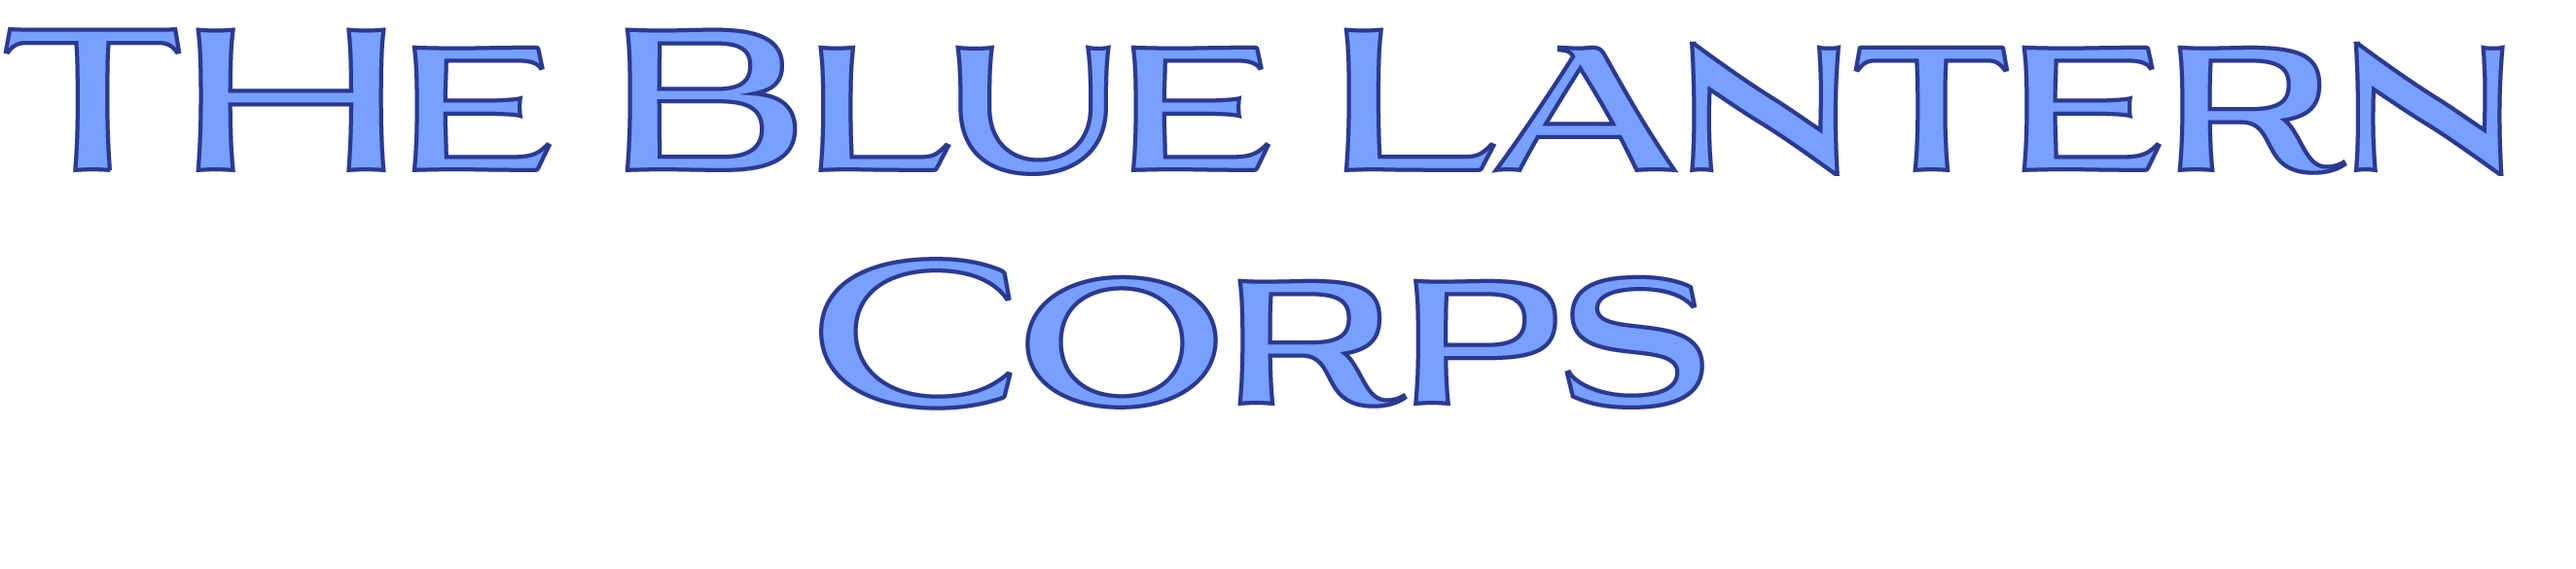
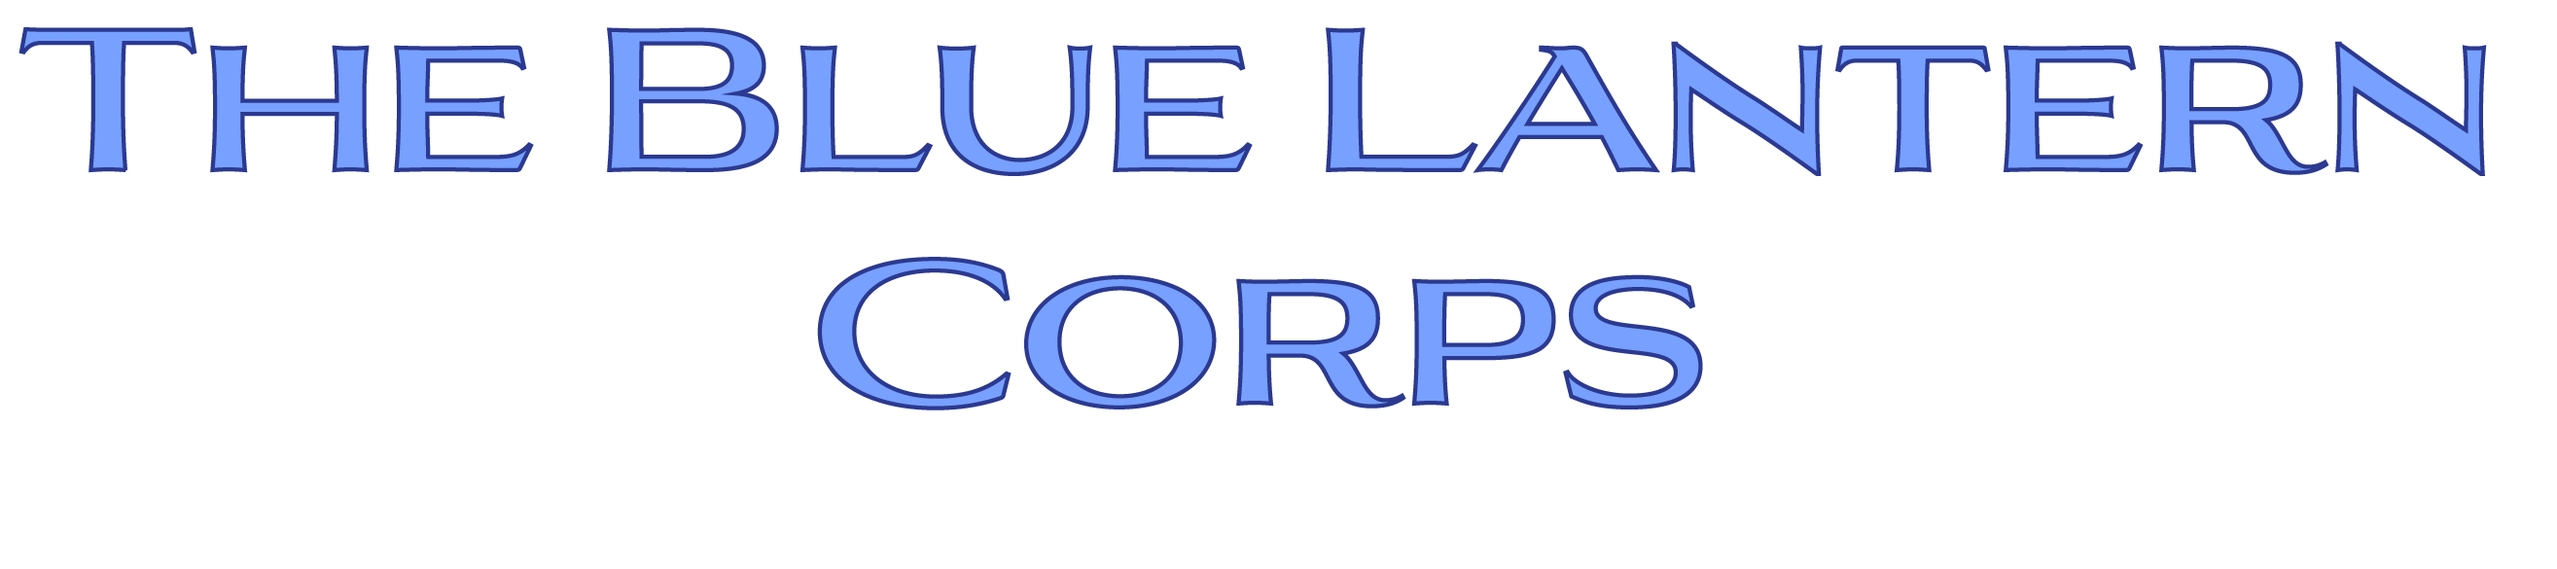
Add files via upload

Changed region(s): [[0.0, 0.0308, 0.5926, 0.3077], [0.3119, 0.4615, 0.6862, 0.7385], [0.5926, 0.0615, 0.9357, 0.3077]]

diff --git a/Lantern Site (Work)/index.html b/Lantern Site (Work)/index.html
@@ -9,35 +9,36 @@
 <body>
   <div class="row expand-column-wrapper">
   <div class="column">
-	  <a href="will/greenlantern.html"><h1 class="expand-column-content" style="color: #63FF88">Will</h1></a>
+	  <a href="will/greenlantern.html"><img alt="Will" src="images/CoreWill.png" class="expand-column-content" style="width: 300px"></a>
 	  </div>
   <div class="column">
- <a href="hope/bluelanterns.html"><h1 class="expand-column-content" style="color: #77A0FF">Hope</h1></a>
+ <a href="hope/bluelanterns.html"><img alt="Hope"src="images/CoreHope.png" class="expand-column-content" style="width: 300px"></a>
   </div>
   <div class="column">
-    <a href="rage/redlantern.html"><h1 class="expand-column-content" style="color: #FF777A">Rage</h1></a>
+    <a href="rage/redlantern.html"><img alt="Rage" src="images/CoreRage.png" class="expand-column-content" style="width: 300px"></a>
   </div>
   <div class="column">
-    <a href="greed/orangelanterns.html"><h1 class="expand-column-content" style="color: #FFC26B">Greed</h1></a>
+    <a href="greed/orangelanterns.html"><img alt="Greed" src="images/CoreGreed.png" class="expand-column-content" style="width: 300px"></a>
   </div>
   <div class="column">
-    <a href="love/pinklanterns.html"><h1 class="expand-column-content" style="color: #FD79D8">Love</h1></a>
+    <a href="love/pinklanterns.html"><img alt="Love" src="images/CoreLove.png" class="expand-column-content" style="width: 300px"></a>
   </div>
 	<div class="column">
-    <a href="fear/yellowlanterns.html"><h1 class="expand-column-content" style="color: #F9E97E">Fear</h1></a>
+    <a href="fear/yellowlanterns.html"><img alt="Fear" src="images/CoreFear.png" class="expand-column-content" style="width: 300px"></a>
   </div>
 	<div class="column">
-    <a href="compassion/indigolanterns.html"><h1 class="expand-column-content" style="color: #BD71FF">Compassion</h1></a>
+    <a href="compassion/indigolanterns.html"><img alt="Compassion" src="images/CoreCompassion.png" class="expand-column-content" style="width: 750px"></a>
   </div>
 	<div class="column">
-    <a href="life/whitelantern.html"><h1 class="expand-column-content" style="color: #555555">Life</h1></a>
+    <a href="life/whitelantern.html"><img alt="Life" src="images/CoreLife.png" class="expand-column-content" style="width: 300px"></a>
   </div>
 	<div class="column">
-    <a href="death/blacklanterns.html"><h1 class="expand-column-content" style="color: #929090">Death</h1></a><br>
+    <a href="death/blacklanterns.html"><img alt="Death" src="images/CoreDeath.png" class="expand-column-content" style="width: 300px"></a><br>
   </div>
 	  	<div class="column">
 		
-			<h2 class="expand-column-content" style="color: #BD71FF"><center>Do you know yourself?<br> I mean REALLY know yourself?<br><span style="font-size: 1em">Unfiltered</span><br><span style="font-size: 1.5em">          Unadulterated</span><br>                       <span style="font-size: 2em">Raw</span><br><span style="font-size: 1em"><i>Y O U</i></span> <br> Would you like to?<br>Then join me,<br><a href="umbrax/Ultravioletlanterns.html" style="color: #BD71FF">Umbrax</a></center></h2>
+			<center><img alt="Umbrax1" src="images/CoreUmbraxText.png" class="expand-column-content" style="width: 300px"><br>
+			<a href="umbrax/Ultravioletlanterns.html"><img alt="Umbrax2" src="images/CoreUmbrax.png" class="expand-column-content" style="width: 500px"></a></center>
 	  </div>
 	
   </div>

diff --git a/Lantern Site (Work)/greed/orangelanterns.html b/Lantern Site (Work)/greed/orangelanterns.html
@@ -15,9 +15,9 @@
   </div>
 
   <div class="middle-content-section">
-    <h1 style="color: #FF9300">Orange Lantern</h1>
-	  <h2 style="color: #FF9300">Greed</h2>
-	  <a href="https://dc.fandom.com/wiki/Orange_Lantern_Corps"><button class="button large" style="color: #FF9300">Join</button></a>
+    <img src="greedtitle.png" style="width: 750px"><br>
+	  <img src="greedsub.png" style="width: 300px; padding-bottom: 30px"><br>
+	  <a href="https://dc.fandom.com/wiki/Orange_Lantern_Corps_(New_Earth)"><button class="button large" style="color: #FF9300">Join</button></a>
     <a href="../index.html"><button class="button large" style="color: #FF9300">Back To Core</button></a>
   </div>
 
@@ -27,7 +27,6 @@
 
 </div>
 
-<div id="main-content-section" data-magellan-target="main-content-section">
 <div id="main-content-section" data-magellan-target="main-content-section">
 	<center><img src="GreedOath.png" style= "height: 500px; padding-top: 5px"></center>
 </div>

diff --git a/Lantern Site (Work)/rage/redlantern.html b/Lantern Site (Work)/rage/redlantern.html
@@ -15,8 +15,9 @@
   </div>
 
   <div class="middle-content-section">
-    <h1 style="color: #FF0000">Red Lanterns</h1>
-	  <h2 style="color: #FF0000">Rage</h2>
+   <div class="middle-content-section">
+   <img src="ragetitle.png" style="width: 750px"><br>
+	  <img src="ragesub.png" style="width: 500px; padding-bottom: 30px"><br>
     <a href="https://dc.fandom.com/wiki/Red_Lantern_Corps"><button class="button large" style="color: #FF777A">Join</button></a>
     <a href="../index.html"><button class="button large" style="color: #FF777A">Back To Core</button></a>
   </div>
@@ -26,6 +27,7 @@
   </div>
 
 </div>
+	</div>
 
 <div id="main-content-section" data-magellan-target="main-content-section">
 	<center><img src="RageOath.png" style= "height: 500px; padding-top: 5px"></center>

diff --git a/Lantern Site (Work)/love/pinklanterns.html b/Lantern Site (Work)/love/pinklanterns.html
@@ -15,8 +15,8 @@
   </div>
 
   <div class="middle-content-section">
-    <h1 style="color: #FF00FA">Star Sapphire Corps</h1>
-	  <h2 style="color: #FF00FA">Love</h2>
+   <img src="Lovetitle.png" style="width: 750px"><br>
+	  <img src="Lovesub.png" style="width: 300px; padding-bottom: 30px"><br>
     <a href="https://dc.fandom.com/wiki/Star_Sapphire_Corps_(New_Earth)"><button class="button large" style="color: #FF00FA">Join</button></a>
     <a href="../index.html"><button class="button large" style="color: #FF00FA">Back To Core</button></a>
   </div>

diff --git a/Lantern Site (Work)/life/whitelantern.html b/Lantern Site (Work)/life/whitelantern.html
@@ -15,8 +15,8 @@
   </div>
 
   <div class="middle-content-section">
-    <h1 style="color:#ECECEC;">White Lanterns</h1>
-	  <h2 style="color:#ECECEC">Life</h2>
+    <img src="Lifetitle.png" style="width: 750px"><br>
+	  <img src="Lifesub.png" style="width: 300px; padding-bottom: 30px"><br>
     <a href="https://dc.fandom.com/wiki/White_Lantern_Corps_(New_Earth)"><button class="button large" style="color:#727272">Join</button></a>
     <a href="../index.html"><button class="button large" style="color:#727272" >Back To Core</button></a>
   </div>

diff --git a/Lantern Site (Work)/fear/yellowlanterns.html b/Lantern Site (Work)/fear/yellowlanterns.html
@@ -15,8 +15,8 @@
   </div>
 
   <div class="middle-content-section">
-    <h1 style="color: #FFF200"> Sinestro Corps</h1>
-	  <h2 style="color: #FFF200">Fear</h2>
+    <img src="FearTitle.png" style="width: 750px"><br>
+	  <img src="Fearsub.png" style="width: 300px; padding-bottom: 30px"><br>
    <a href="https://dc.fandom.com/wiki/Sinestro_Corps_(New_Earth)"> <button class="button large" style="color: #FFF200">Join</button></a>
     <a href="../index.html"><button class="button large" style="color: #FFF200" >Back To Core</button></a>
   </div>

diff --git a/Lantern Site (Work)/compassion/indigolanterns.html b/Lantern Site (Work)/compassion/indigolanterns.html
@@ -15,8 +15,8 @@
   </div>
 
   <div class="middle-content-section">
-    <h1 style="color: #AD00FF">Indigo Tribe</h1>
-	  <h2 style="color: #AD00FF">Compassion</h2>
+   <img src="Compassiontitle.png" style="width: 750px"><br>
+	  <img src="Compassionsub.png" style="width: 300px; padding-bottom: 30px"><br>
     <a href="https://dc.fandom.com/wiki/Indigo_Tribe"><button class="button large" style="color: #AD00FF">Join</button></a>
     <a href="../index.html"><button class="button large" style="color: #AD00FF">Back To Core</button></a>
   </div>

diff --git a/Lantern Site (Work)/will/greenlantern.html b/Lantern Site (Work)/will/greenlantern.html
@@ -15,8 +15,8 @@
   </div>
 
   <div class="middle-content-section">
-    <h1 style="color: #047000"> Green Lanterns</h1>
-	  <h2 style="color: #047000">Will</h2>
+   <img src="GreenLantern-01.png" style="width: 750px"><br>
+	  <img src="GreenLanternsub.png" style="width: 300px; padding-bottom: 30px"><br>
     <a href="https://dc.fandom.com/wiki/Green_Lantern"><button class="button large" style="color: #047000">Join</button></a>
     <a href="../index.html"><button class="button large" style="color: #047000">Back To Core</button></a>
   </div>

diff --git a/Lantern Site (Work)/hope/bluelanterns.html b/Lantern Site (Work)/hope/bluelanterns.html
@@ -15,8 +15,8 @@
   </div>
 
   <div class="middle-content-section">
-    <h1 style="color:#1B1AC7;">Blue Lanterns</h1>
-	  <h2 style="color:#1B1AC7;">Hope</h2>
+     <img src="HopeTitle.png" style="width: 750px"><br>
+	  <img src="HopeTitlesub.png" style="width: 300px; padding-bottom: 30px"><br>
    <a href="https://dc.fandom.com/wiki/Blue_Lantern_Corps"> <button class="button large" style="color:#1B1AC7;">Join</button></a>
     <a href="../index.html"><button class="button large" style="color:#1B1AC7;">Back To Core</button></a>
   </div>

diff --git a/Lantern Site (Work)/death/blacklanterns.html b/Lantern Site (Work)/death/blacklanterns.html
@@ -15,8 +15,8 @@
   </div>
 
   <div class="middle-content-section">
-    <h1 style="color: #CACACA">Black Lanterns</h1>
-	  <h2 style="color: #CACACA">Death</h2>
+ <img src="Deathtitle.png" style="width: 750px"><br>
+	  <img src="deathsub.png" style="width: 300px; padding-bottom: 30px"><br>
     <button class="button large" style="color: #CACACA">Join</button>
     <a href="../index.html"><button class="button large" style="color: #CACACA">Back To Core</button></a>
   </div>
